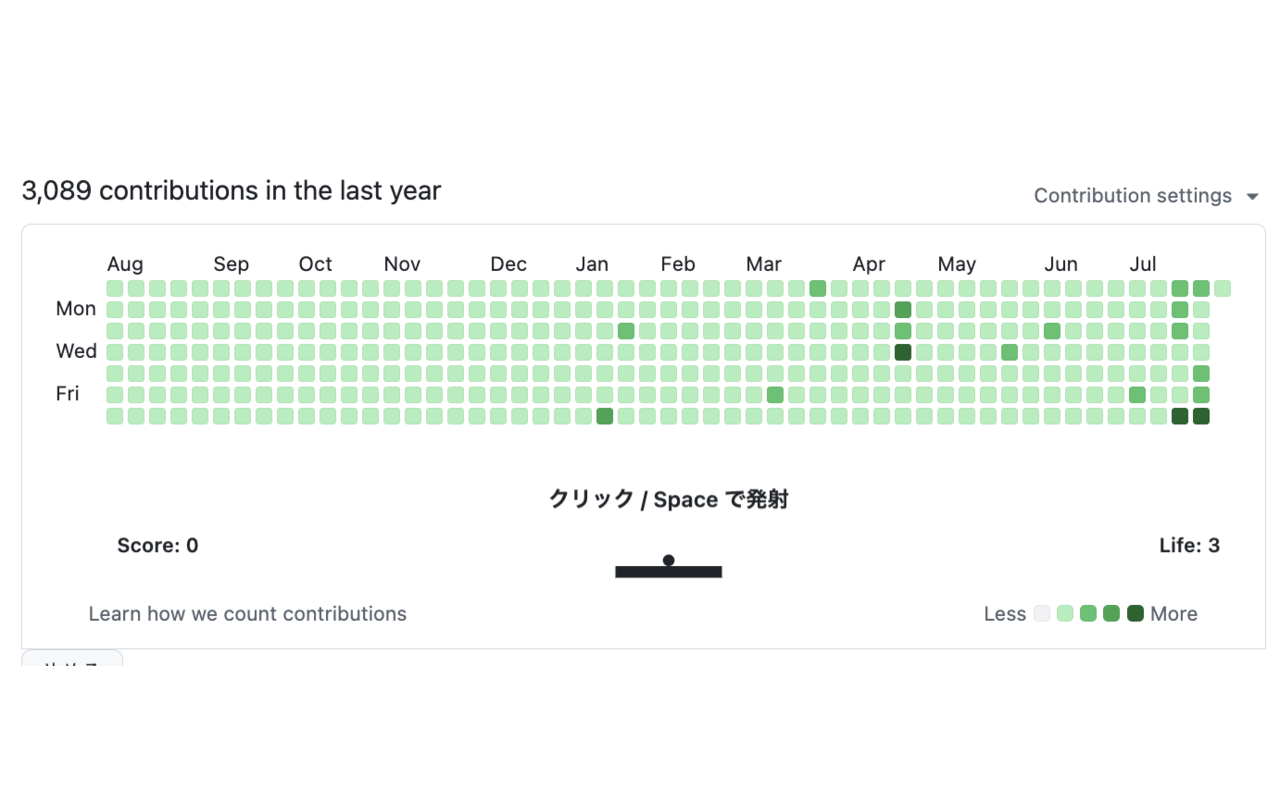
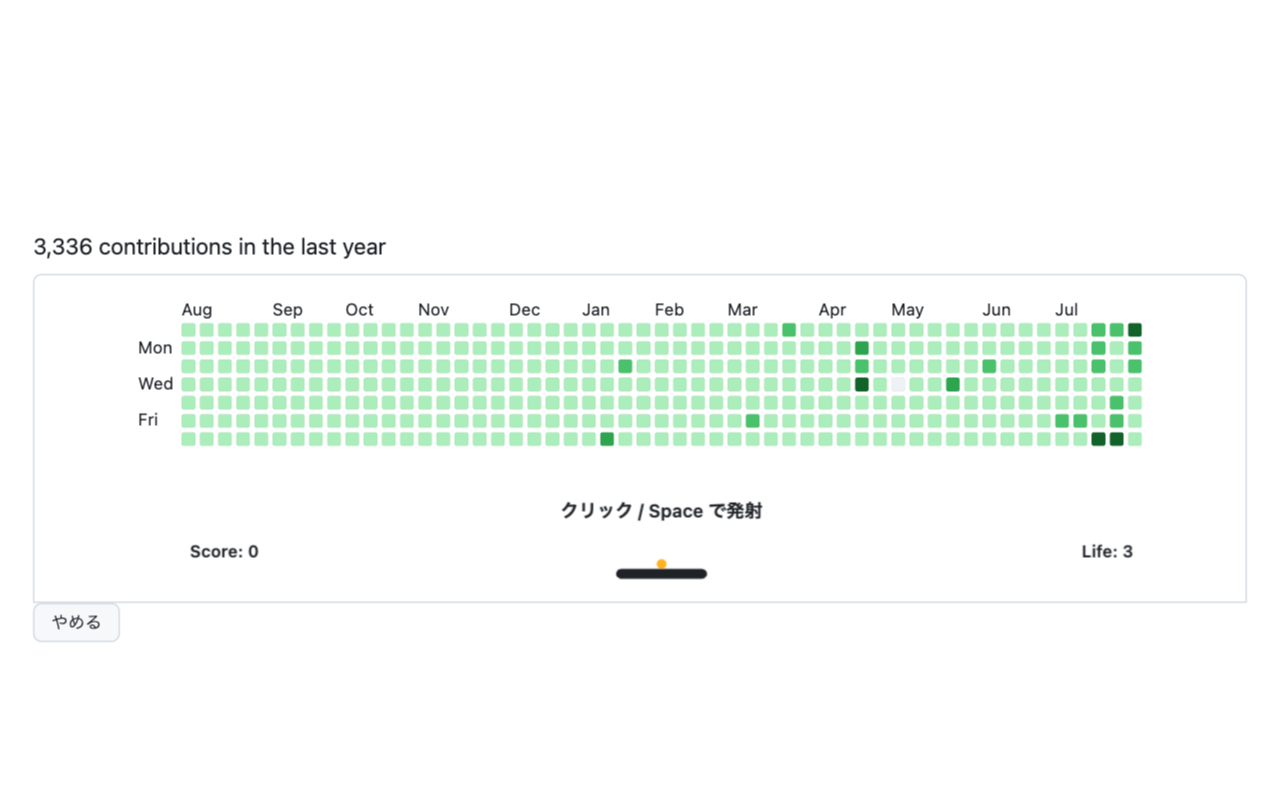
docs(extension): v1.1.0 の見た目でストア掲載画像を撮り直す
玉をアンバー・バーを角丸にした v1.1.0 に対して、掲載中の 4 枚は v1.0.0 の
見た目(黒い玉・角のないバー)のままだった。実物と一致させるために撮り直す。

撮影は .claude/skills/release-extension/capture-screenshots.mjs に自動化した。
草グラフの見出しと表の祖先でない要素をすべて非表示にしてから撮るので、所属組織や
Pinned リポジトリは構図に入らない。

diff --git a/.claude/skills/release-extension/SKILL.md b/.claude/skills/release-extension/SKILL.md
@@ -63,6 +63,31 @@ cp "$SRC"/icons/icon-128.png "$DEST/store-icon-128.png"
 「審査のため送信」は**公開行為なのでユーザーが押す**。押す前に全項目を読み上げて確認する。
 押したあと、ステータスが「ドラフト」→「審査待ち」に変わることを実測する。
 
+## 見た目を変えたらスクリーンショットを撮り直す
+
+掲載画像は実物と一致していないといけない。玉の色やバーの形を変えたリリースでは、
+`store/screenshots/` の 4 枚が前の見た目のまま残る。**撮り直しは自動化してある。**
+
+```bash
+node .claude/skills/release-extension/capture-screenshots.mjs
+for f in apps/extension/store/screenshots/*.png; do sips -c 800 1280 "$f"; done
+```
+
+やっていること（`capture-screenshots.mjs`）:
+
+- 実物の GitHub プロフィールを開き、**草グラフの見出しと表の祖先でない要素をすべて `display:none`** にする。
+  これで所属組織・Pinned リポジトリ・アクティビティが構図から消える（**組織名は絶対に写さない**）
+- `dist/content.js` をページに直接 `evaluate` する。バンドルは `chrome.*` API を使っていないので、
+  拡張として読み込む必要がない（Chrome 137 以降 `--load-extension` は自動化フラグ下で効かない）
+- 玉のアンバー `#ffb224` をキャンバスから拾って重心 x を出し、そこへマウスを動かして**自動でラリーする**
+- 04 は `itemDropChance` を 1 に書き換えたコピーを注入して、アイテムが必ず落ちる状態を撮る
+
+**Primer のユーティリティクラスは `!important`** なので、要素を隠すときは
+`style.setProperty("display", "none", "important")` でないと効かない（`d-md-block` に負ける）。
+
+ビューポートは 915x572・`deviceScaleFactor` 1.4。これで既存 4 枚と同じセルサイズの
+1280x800 になる（出力は 1281x801 なので `sips` で 1 px 落とす）。
+
 ## 落とし穴（すべて 2026-07-27 に実際に踏んだ）
 
 ### 画像を上げたら必ず「下書きとして保存」する
